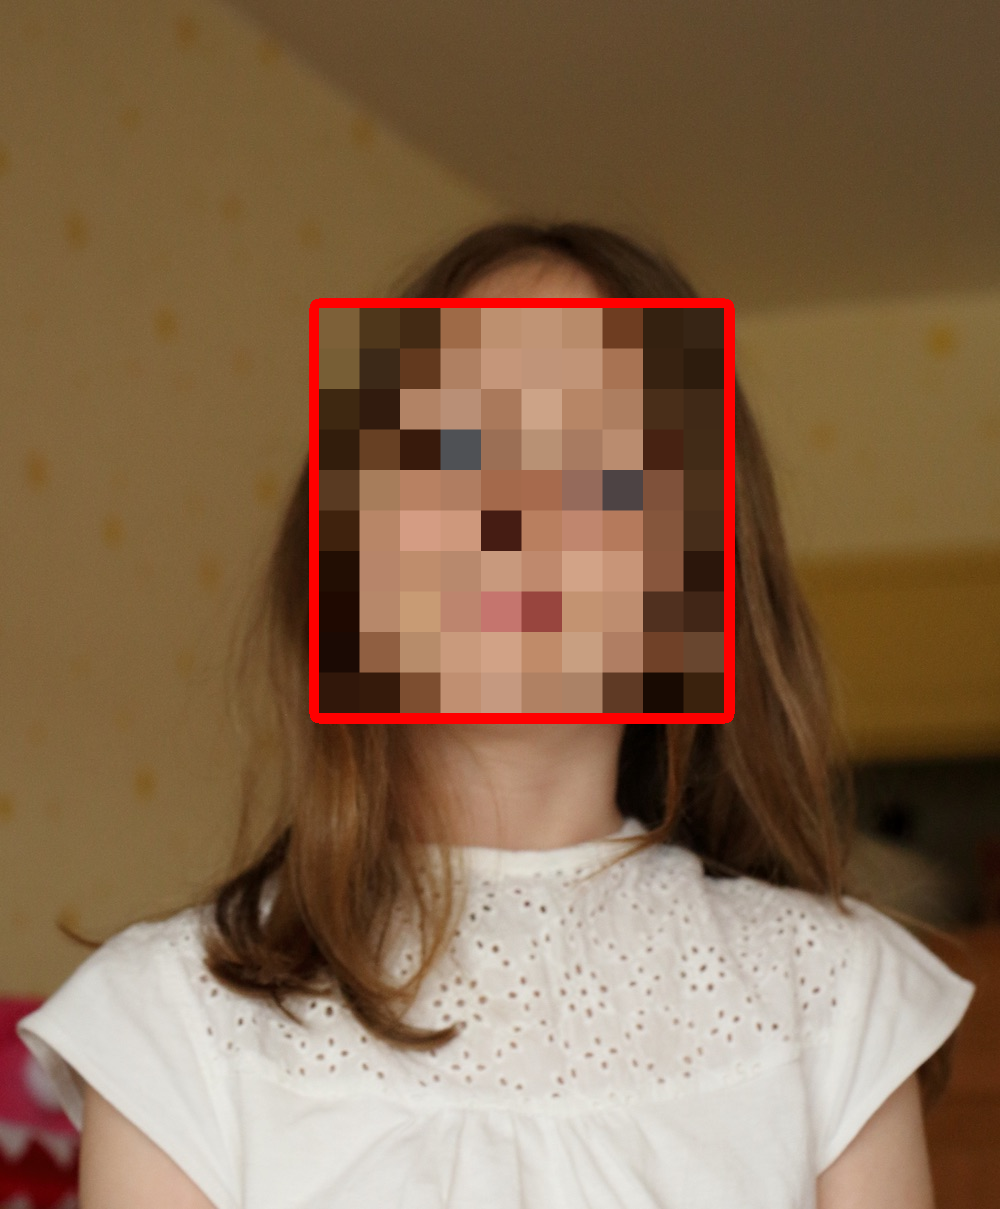
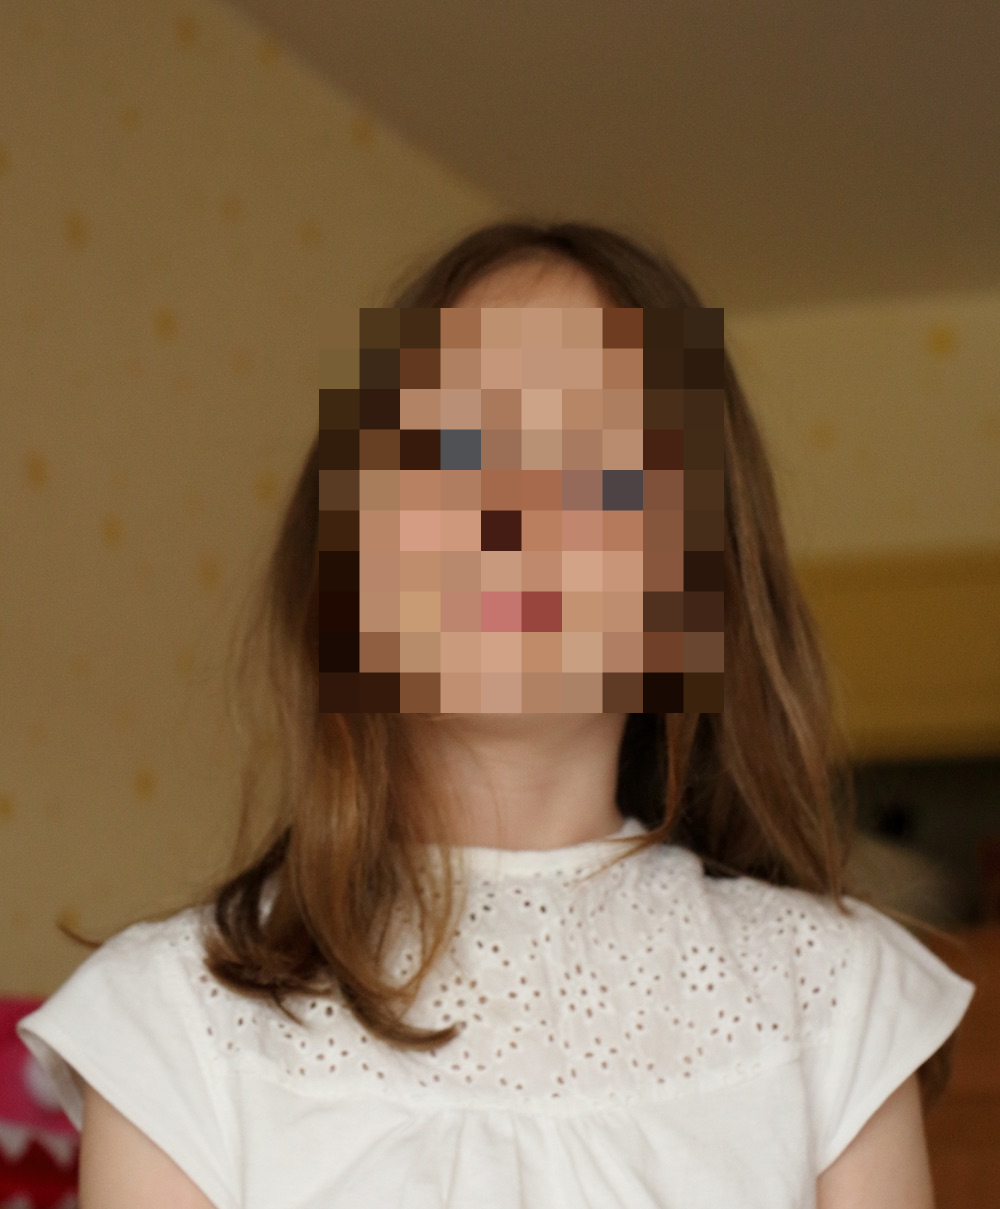
face mosaic

Changed region(s): [[0.31, 0.2448, 0.744, 0.6121]]

diff --git a/backend/admin/mycv2/models.py b/backend/admin/mycv2/models.py
@@ -21,9 +21,9 @@ class MyCV2(object):
             print('얼굴 인식 실패')
             quit()
         for(x, y, w, h) in face:
-            red = (0, 0, 255)
-            image2 = cv2.rectangle(image, (x,y), (x+w, y+h), red, thickness=20)
-            mos = self.mosaic(image2, rect=(x, y, x+w, y+h), size=10)
+            # red = (0, 0, 255)
+            # image2 = cv2.rectangle(image, (x,y), (x+w, y+h), red, thickness=20)
+            mos = self.mosaic(image, rect=(x, y, x+w, y+h), size=10)
 
         cv2.imwrite(f'{vo.context}girl-mosaic.png', mos)
         cv2.waitKey(0)
@@ -34,7 +34,7 @@ class MyCV2(object):
         reader = self.reader
         vo.fname = 'cat.jpg'
         image = cv2.imread(reader.new_file(vo), cv2.IMREAD_COLOR)
-        mos = self.mosaic(image, rect=(50, 50, 450, 450), size=10)
+        mos = self.mosaic(image, rect=(50, 50, 450, 450), size=5)
         cv2.imwrite(f'{vo.context}cat-mosaic.png', mos)
         cv2.waitKey(0)
         cv2.destroyAllWindows()
